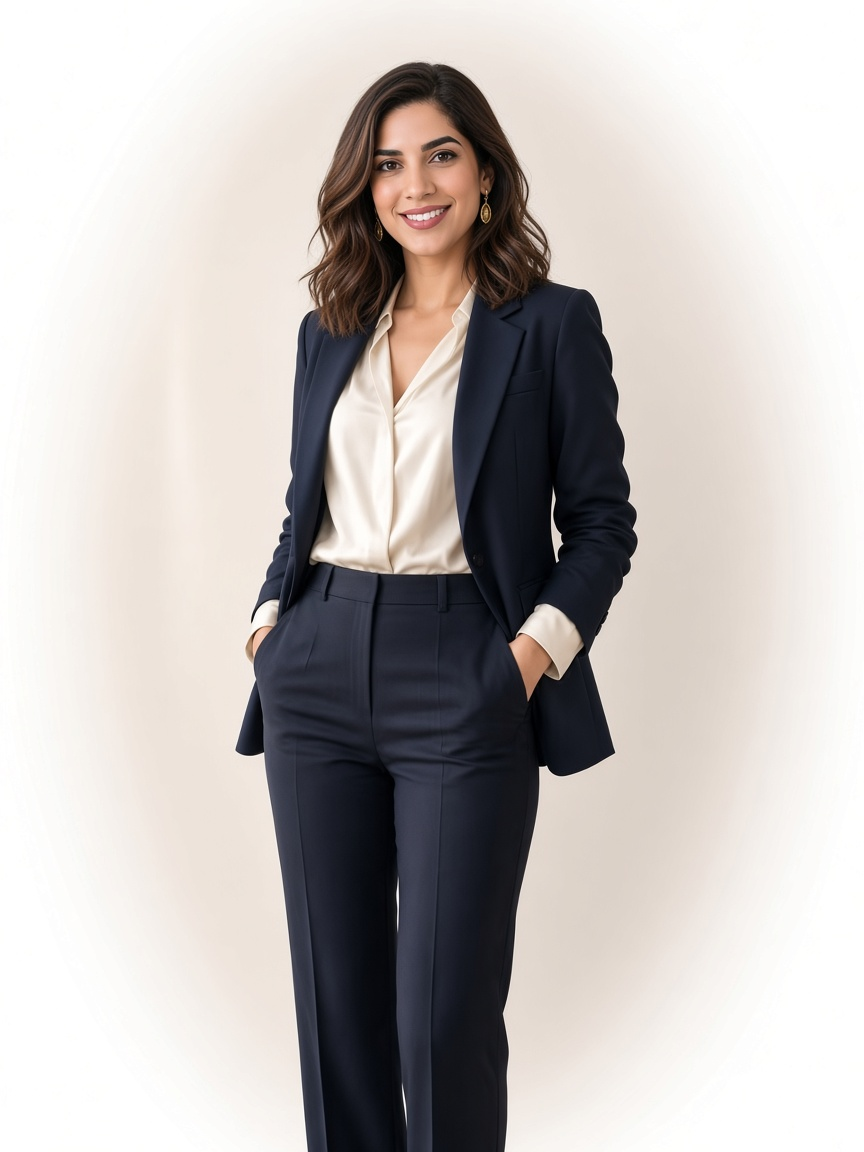
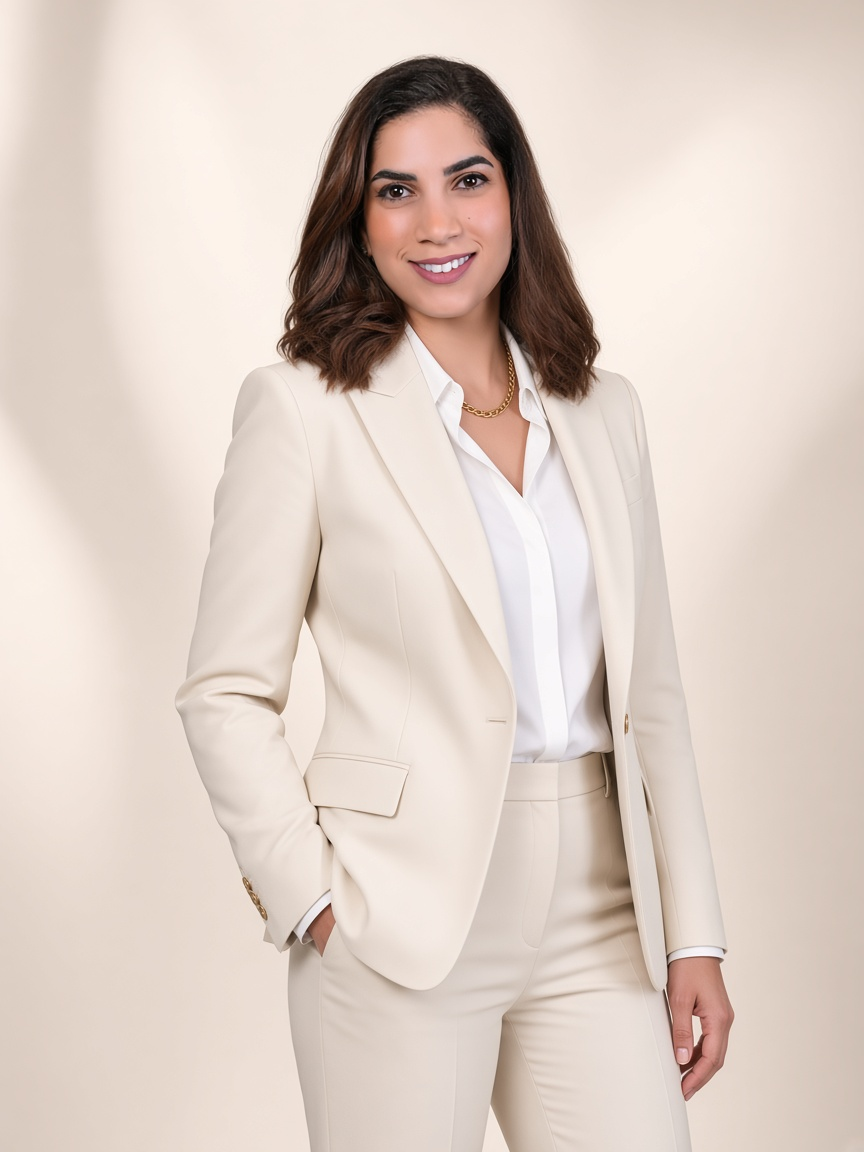
Add enhanced portraits and consultation standing photo.

diff --git a/components/ConsultationCta.tsx b/components/ConsultationCta.tsx
@@ -1,3 +1,4 @@
+import Image from "next/image";
 import { Button } from "@/components/ui/Button";
 import { Container } from "@/components/ui/Container";
 import { SectionReveal } from "@/components/ui/SectionReveal";
@@ -14,25 +15,39 @@ export function ConsultationCta() {
         className="pointer-events-none absolute -right-24 -bottom-24 h-72 w-72 rounded-full border border-champagne/40"
       />
       <Container>
-        <SectionReveal className="max-w-3xl">
-          <p className="text-[11px] tracking-[0.28em] text-gold uppercase">
-            Private consultation
-          </p>
-          <h2 className="mt-4 font-serif text-4xl leading-tight text-charcoal sm:text-6xl">
-            {profile.consultation.title}
-          </h2>
-          <p className="mt-6 max-w-2xl text-[16px] leading-8 text-ink/80">
-            {profile.consultation.text}
-          </p>
-          <div className="mt-8 flex flex-wrap gap-3">
-            <Button href="/#contact">{profile.consultation.cta}</Button>
-            {whatsapp ? (
-              <Button href={whatsapp} variant="secondary">
-                WhatsApp
-              </Button>
-            ) : null}
-          </div>
-        </SectionReveal>
+        <div className="grid items-center gap-12 lg:grid-cols-[1.1fr_0.9fr]">
+          <SectionReveal className="max-w-3xl">
+            <p className="text-[11px] tracking-[0.28em] text-gold uppercase">
+              Private consultation
+            </p>
+            <h2 className="mt-4 font-serif text-4xl leading-tight text-charcoal sm:text-6xl">
+              {profile.consultation.title}
+            </h2>
+            <p className="mt-6 max-w-2xl text-[16px] leading-8 text-ink/80">
+              {profile.consultation.text}
+            </p>
+            <div className="mt-8 flex flex-wrap gap-3">
+              <Button href="/#contact">{profile.consultation.cta}</Button>
+              {whatsapp ? (
+                <Button href={whatsapp} variant="secondary">
+                  WhatsApp
+                </Button>
+              ) : null}
+            </div>
+          </SectionReveal>
+
+          <SectionReveal delay={0.08} className="relative mx-auto w-full max-w-[380px]">
+            <div className="relative aspect-[3/4]">
+              <Image
+                src={profile.images.standing}
+                alt={`${profile.name}, ${profile.title}`}
+                fill
+                sizes="(max-width: 1024px) 80vw, 380px"
+                className="object-contain object-bottom"
+              />
+            </div>
+          </SectionReveal>
+        </div>
       </Container>
     </section>
   );

diff --git a/data/profile.ts b/data/profile.ts
@@ -24,6 +24,7 @@ export const profile = {
   images: {
     portrait: "/images/aya/portrait.jpg",
     hero: "/images/aya/hero.png",
+    standing: "/images/aya/standing.png",
   },
   linkedin: "https://www.linkedin.com/in/ayasalam/",
   instagram: "",
